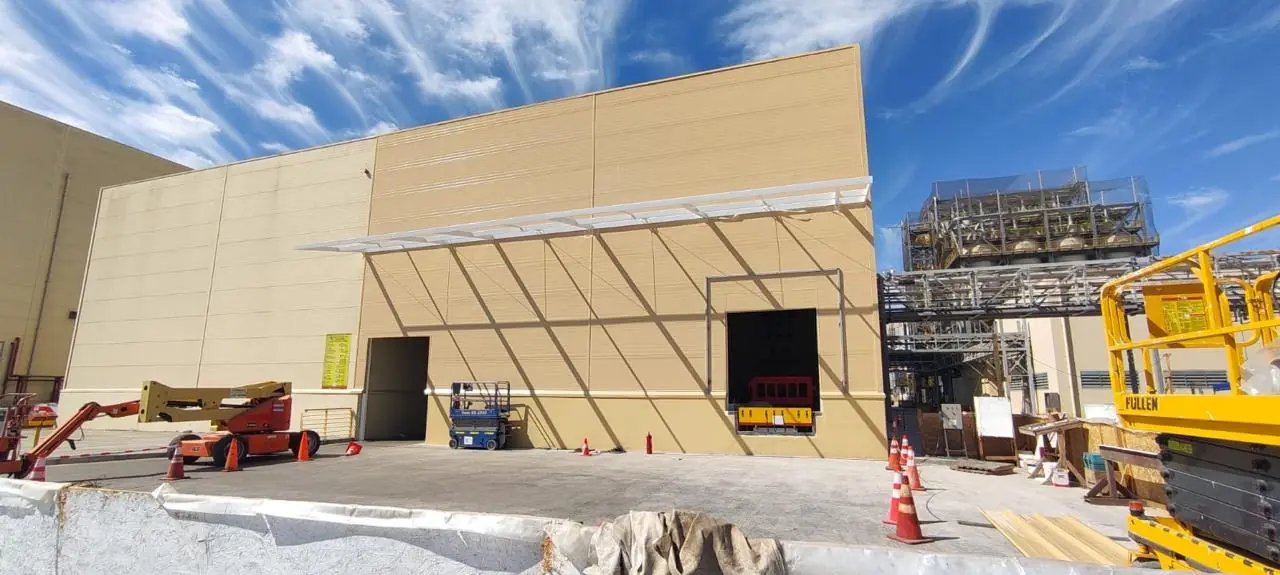
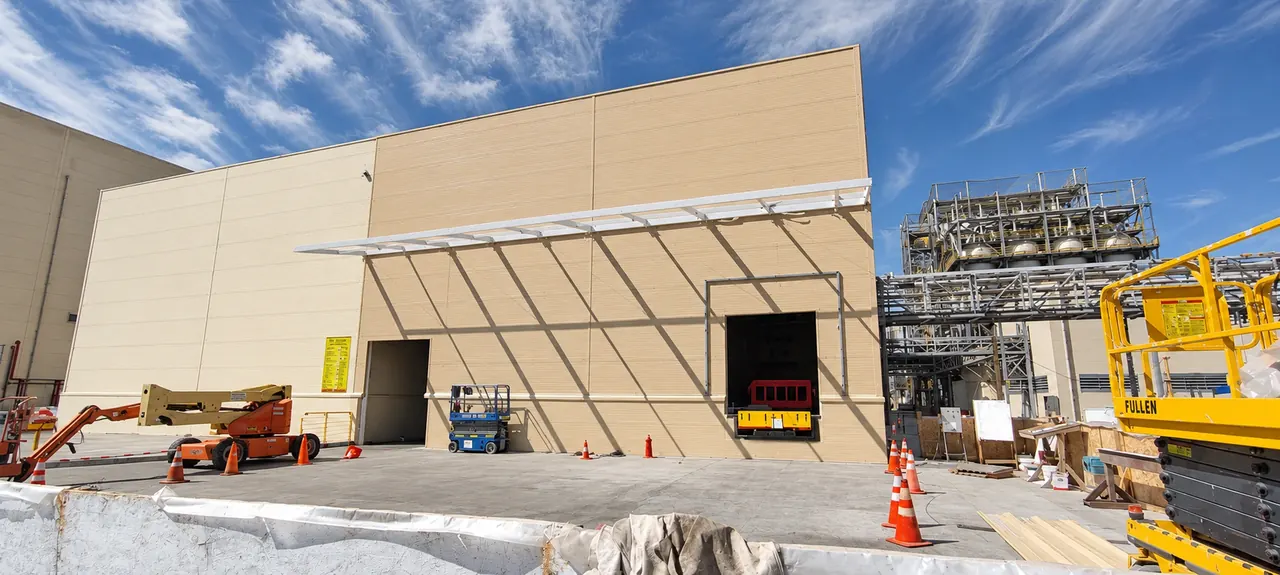
feat(constructora-sitio): las 16 fotos mejoradas y heroes nítidos
Jorge decidió usar las 16 fotos mejoradas. En revestimiento-brazo y
revestimiento-avance se desenfocan los letreros para que no se lea texto
inventado. Las fotos a todo ancho suman variantes de 1600 y 2400 px al
srcset; las que no llegan a 1600 px usan una cabeza más baja con velo más
fuerte.

Claude-Session: https://claude.ai/code/session_01T1rmJwdwM5VMikFArQuqpH

diff --git a/apps/constructora-sitio/src/components/Foto.tsx b/apps/constructora-sitio/src/components/Foto.tsx
@@ -6,6 +6,16 @@ import type { FotoObra } from "@/data/obras";
  * Foto de obra en WebP con dos anchos. La miniatura de fondo evita el cuadro
  * vacío mientras carga, y el alto reservado evita saltos de página.
  */
+/** Anchos de las variantes grandes de una foto, si existen. */
+export function anchosGrandes(nombre: FotoObra["nombre"]): number[] {
+  return (medidas[nombre] as { alta?: number[] }).alta ?? [];
+}
+
+/** Ancho máximo disponible: bajo 1600 px, una foto a todo ancho se ve granulada. */
+export function anchoMaximo(nombre: FotoObra["nombre"]): number {
+  return Math.max(medidas[nombre].w, ...anchosGrandes(nombre));
+}
+
 export default function Foto({
   foto,
   sizes,
@@ -19,7 +29,10 @@ export default function Foto({
 }) {
   const { w, h, lqip } = medidas[foto.nombre];
   const base = `/obras/${foto.nombre}`;
-  const srcSet = `${base}-640.webp ${Math.min(w, 640)}w, ${base}-1280.webp ${w}w`;
+  // Variantes grandes (960, 1600, 2400 o el ancho real del original) para fotos a todo ancho.
+  // El archivo lleva el tamaño pedido (960, 1600 o 2400); su ancho real puede ser menor.
+  const grandes = anchosGrandes(foto.nombre).map((a) => `${base}-${[960, 1600, 2400].find((t) => a <= t) ?? 2400}.webp ${a}w`);
+  const srcSet = [`${base}-640.webp ${Math.min(w, 640)}w`, `${base}-1280.webp ${w}w`, ...grandes].join(", ");
   if (prioridad) preload(`${base}-1280.webp`, { as: "image", imageSrcSet: srcSet, imageSizes: sizes, fetchPriority: "high" });
   return (
     <img

diff --git a/apps/constructora-sitio/src/app/globals.css b/apps/constructora-sitio/src/app/globals.css
@@ -233,6 +233,9 @@ button { font: inherit; color: inherit; }
 /* Páginas internas */
 .cabeza { background: var(--noche); color: #fff; padding-block: clamp(40px, 6vw, 72px); }
 .cabeza.foto-fondo { min-height: 56svh; display: flex; align-items: flex-end; }
+/* Foto de menos de 1600 px: cabeza más baja y velo más fuerte, para que no se note el grano. */
+.cabeza.foto-fondo.foto-baja { min-height: 40svh; }
+.foto-baja::before { background: linear-gradient(0deg, rgb(8 20 40 / 0.94) 0%, rgb(8 20 40 / 0.78) 45%, rgb(8 20 40 / 0.5) 100%); }
 .cabeza-texto { display: grid; gap: 16px; }
 .migas { font-size: 0.92rem; color: #cfd8dd; }
 .migas ol { display: flex; flex-wrap: wrap; gap: 6px; }

diff --git a/apps/constructora-sitio/src/components/CabezaPagina.tsx b/apps/constructora-sitio/src/components/CabezaPagina.tsx
@@ -1,5 +1,5 @@
 import type { ReactNode } from "react";
-import Foto from "@/components/Foto";
+import Foto, { anchoMaximo } from "@/components/Foto";
 import Migas, { type Miga } from "@/components/Migas";
 import type { FotoObra } from "@/data/obras";
 
@@ -18,7 +18,7 @@ export default function CabezaPagina({
   children?: ReactNode;
 }) {
   return (
-    <section className={foto ? "cabeza foto-fondo" : "cabeza"}>
+    <section className={foto ? `cabeza foto-fondo${anchoMaximo(foto.nombre) < 1600 ? " foto-baja" : ""}` : "cabeza"}>
       {foto && <Foto foto={foto} sizes="100vw" prioridad />}
       <div className="contenedor cabeza-texto">
         <Migas items={migas} />
